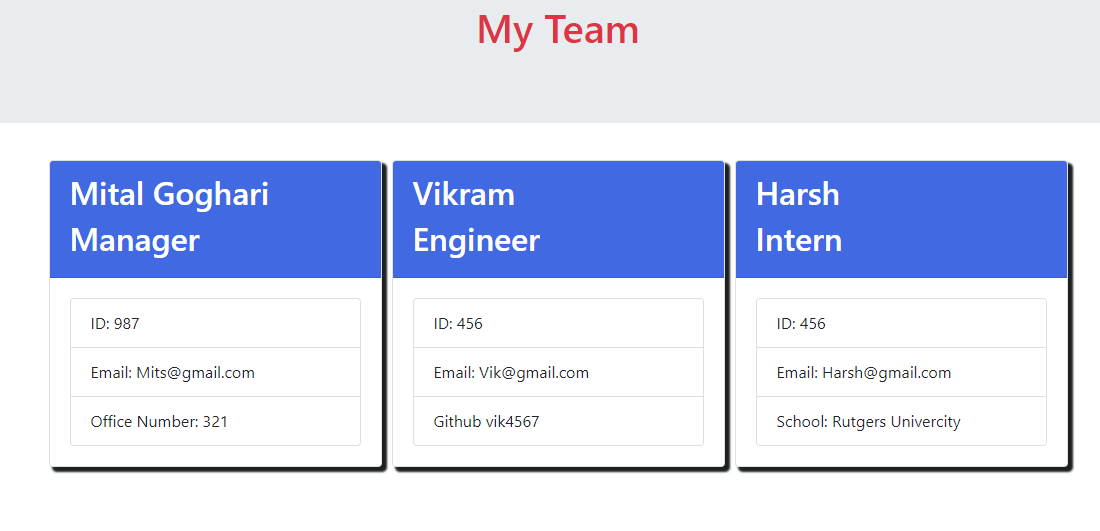
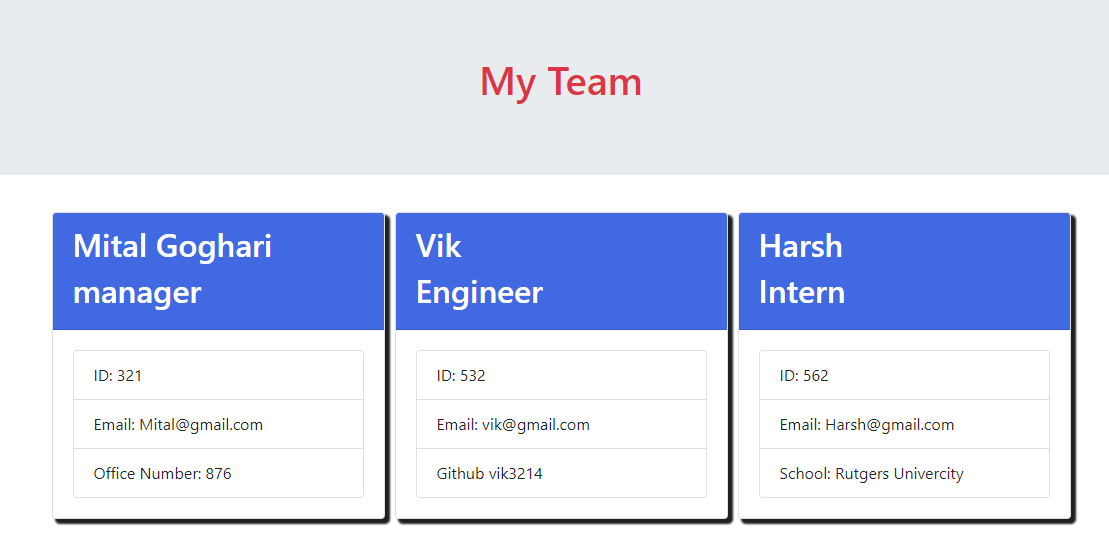
final1 edited read me

diff --git a/dist/index.html b/dist/index.html
@@ -27,13 +27,13 @@
     <div class="card data">    
       <div class="card-header">
         <h2>Mital Goghari</h2>  
-        <h2><i class="far fa-user"></i>Manager</h2>
+        <h2><i class="far fa-user"></i>manager</h2>
       </div>
       <div class="card-body">
        <ul class= "list-group">
-          <li class="list-group-item">ID:  987</li>
-          <li class="list-group-item">Email:  Mits@gmail.com</li>
-          <li class="list-group-item">Office Number:  321</li>
+          <li class="list-group-item">ID:  321</li>
+          <li class="list-group-item">Email:  Mital@gmail.com</li>
+          <li class="list-group-item">Office Number:  876</li>
        </ul>
        </div>
     </div>
@@ -41,14 +41,14 @@
    
     <div class="card data">
       <div class="card-header">
-       <h2>Vikram</h2>  
+       <h2>Vik</h2>  
         <h2><i class="far fa-user"></i>Engineer</h2>
       </div>
       <div class="card-body">
         <ul class= "list-group">
-          <li class="list-group-item">ID:  456</li>
-          <li class="list-group-item">Email:  Vik@gmail.com</li>
-          <li class="list-group-item">Github  vik4567</li>
+          <li class="list-group-item">ID:  532</li>
+          <li class="list-group-item">Email:  vik@gmail.com</li>
+          <li class="list-group-item">Github  vik3214</li>
         </ul>
       </div>
     </div>
@@ -60,7 +60,7 @@
       </div>
       <div class="card-body">
         <ul class= "list-group">
-          <li class="list-group-item">ID:  456 </li>
+          <li class="list-group-item">ID:  562 </li>
           <li class="list-group-item">Email:  Harsh@gmail.com</li>
           <li class="list-group-item">School:  Rutgers Univercity</li>
         </ul>

diff --git a/README.md b/README.md
@@ -31,4 +31,4 @@ Mital Goghari
 
 
 ## Walkthrough Video
-https://watch.screencastify.com/v/PLHEghdtRscAKXAJ6S2Y
+https://watch.screencastify.com/v/OzSUFN2VH2opmPRYMApT
